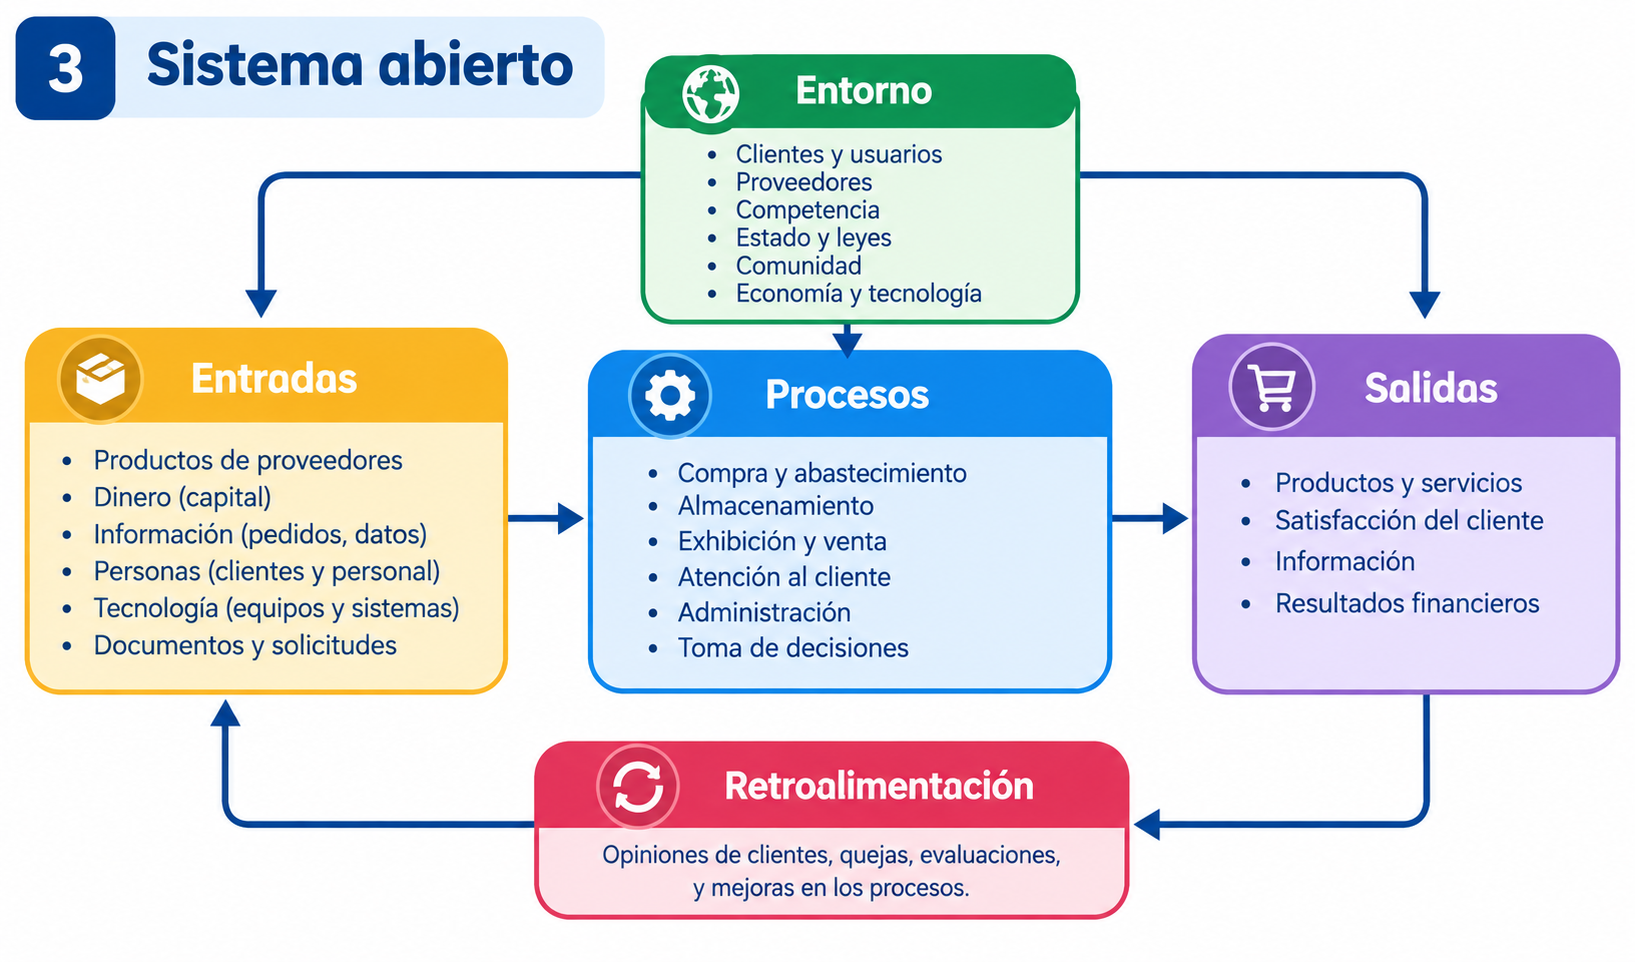
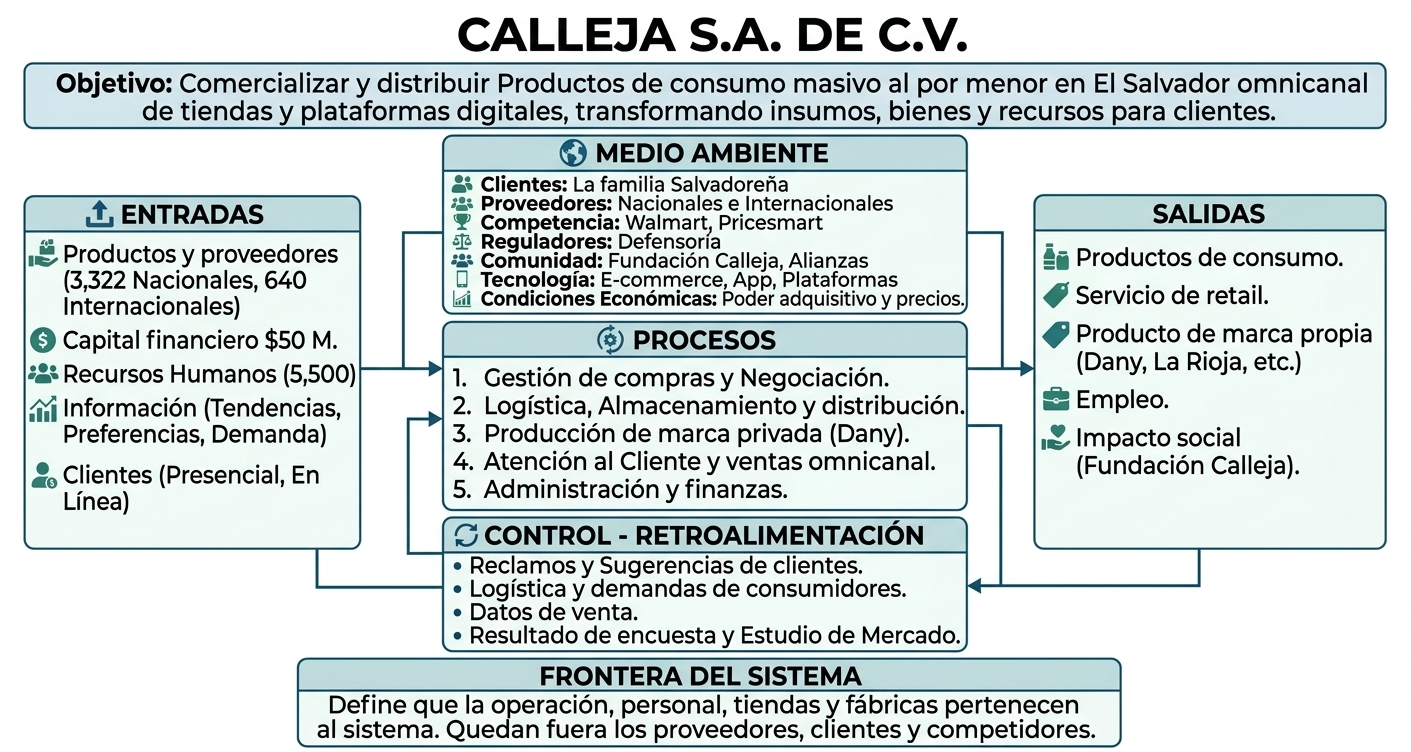
Se reemplazaron los diagramas y se eliminaron imagenessin uso

diff --git a/assets/css/style.css b/assets/css/style.css
@@ -84,6 +84,7 @@ main h2{
 .articulo-seccion2 img{
     width: 100%;
     margin-top: 8px;
+    height: 90%;
 }
 
 .articulo2-seccion2 img{
@@ -108,7 +109,7 @@ main h2{
 }
 
 .evidencias p{
-    padding: 20px 15px 5px 25px;
+    padding: 5px 15px 5px 25px;
     color: #00008B;
 }
 

diff --git a/index.html b/index.html
@@ -121,7 +121,7 @@
         </section>
     </main>
     <footer>
-        <p class="rodapie__copyright">&copy Grupo 3 Teoria de sistemas UES - 2026</p>
+        <p class="rodapie__copyright">&copy Grupo 3 Teoria de sistemas, UES - 2026</p>
     </footer>
 </body>
 </html>
